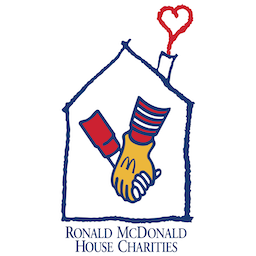
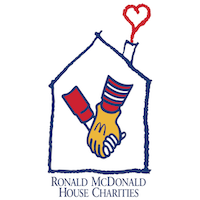
Remove svgs

diff --git a/lib/utils/personal_info.dart b/lib/utils/personal_info.dart
@@ -64,7 +64,7 @@ class PersonalInfo {
 
   static const resume = [
     Experience(
-      imagePath: 'assets/images/flutter.svg',
+      imagePath: 'assets/images/flutter.jpg',
       title: 'Flutter',
       details: [
         'Realized complex designs and fluent animations.',
@@ -74,7 +74,7 @@ class PersonalInfo {
       ],
     ),
     Experience(
-      imagePath: 'assets/images/figma.svg',
+      imagePath: 'assets/images/figma.jpg',
       title: 'Figma',
       details: [
         'Implemented complete design systems.',
@@ -83,7 +83,7 @@ class PersonalInfo {
       ],
     ),
     Experience(
-      imagePath: 'assets/images/firebase.svg',
+      imagePath: 'assets/images/firebase.jpg',
       title: 'Firebase',
       details: [
         'Played with offline data persistence.',
@@ -92,7 +92,7 @@ class PersonalInfo {
       ],
     ),
     Experience(
-      imagePath: 'assets/images/amplitude.svg',
+      imagePath: 'assets/images/amplitude.jpg',
       title: 'Amplitude',
       details: [
         'Implemented full analytics system on mobile apps.',
@@ -100,7 +100,7 @@ class PersonalInfo {
       ],
     ),
     Experience(
-      imagePath: 'assets/images/uco.svg',
+      imagePath: 'assets/images/uco.jpg',
       title: 'Computer Engineer',
       details: [
         'Learned the fundamentals of ML and AI.',
@@ -170,7 +170,7 @@ class PersonalInfo {
       ],
     ),
     Experience(
-      imagePath: 'assets/images/wealize.png',
+      imagePath: 'assets/images/wealize.jpg',
       title: 'Wealize',
       subtitle: 'Full-Stack Developer',
       trailing: '2019 - 2020',

diff --git a/lib/home/widgets/resume_card.dart b/lib/home/widgets/resume_card.dart
@@ -1,5 +1,4 @@
 import 'package:flutter/material.dart';
-import 'package:flutter_svg/svg.dart';
 import 'package:portfolio/home/widgets/experience_tile.dart';
 import 'package:portfolio/home/widgets/home_card.dart';
 import 'package:portfolio/utils/extensions/separate_with_extension.dart';
@@ -16,17 +15,10 @@ class ResumeCard extends StatelessWidget {
           for (final experience in PersonalInfo.resume)
             ExperienceTile(
               experience: experience,
-              leadingBuilder: (context, imagePath) => SizedBox.square(
-                dimension: 48,
-                child: DecoratedBox(
-                  decoration: const BoxDecoration(
-                    color: Colors.white,
-                    shape: BoxShape.circle,
-                  ),
-                  child: Padding(
-                    padding: const EdgeInsets.all(6),
-                    child: SvgPicture.asset(imagePath),
-                  ),
+              leadingBuilder: (context, imagePath) => ClipOval(
+                child: Image.asset(
+                  imagePath,
+                  width: 48,
                 ),
               ),
             ),

diff --git a/lib/home/widgets/header_card.dart b/lib/home/widgets/header_card.dart
@@ -84,16 +84,16 @@ class HeaderCard extends StatelessWidget {
                   leading: Icon(Icons.person_rounded),
                   title: 'He/Him',
                 ),
-                DetailsTile.svg(
-                  assetPath: 'assets/images/spanish.svg',
+                DetailsTile.asset(
+                  assetPath: 'assets/images/spanish.png',
                   title: 'Spanish',
                 ),
-                DetailsTile.svg(
-                  assetPath: 'assets/images/english.svg',
+                DetailsTile.asset(
+                  assetPath: 'assets/images/english.png',
                   title: 'English',
                 ),
-                DetailsTile.svg(
-                  assetPath: 'assets/images/german.svg',
+                DetailsTile.asset(
+                  assetPath: 'assets/images/german.png',
                   title: 'German',
                 ),
               ],

diff --git a/lib/home/widgets/details_tile.dart b/lib/home/widgets/details_tile.dart
@@ -1,5 +1,4 @@
 import 'package:flutter/material.dart';
-import 'package:flutter_svg/flutter_svg.dart';
 import 'package:gap/gap.dart';
 
 class DetailsTile extends StatelessWidget {
@@ -12,14 +11,14 @@ class DetailsTile extends StatelessWidget {
     required this.title,
   });
 
-  factory DetailsTile.svg({
+  factory DetailsTile.asset({
     required String assetPath,
     required String title,
   }) {
     return DetailsTile(
       leading: Padding(
         padding: const EdgeInsets.all(5),
-        child: SvgPicture.asset(assetPath),
+        child: Image.asset(assetPath),
       ),
       title: title,
     );
